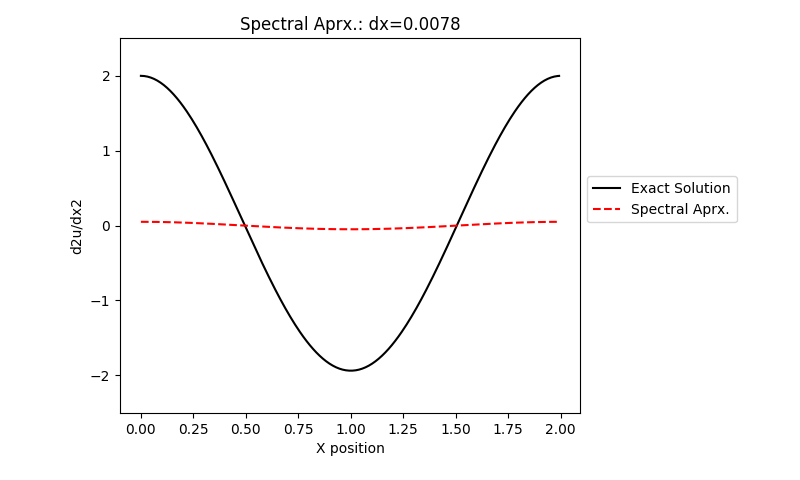
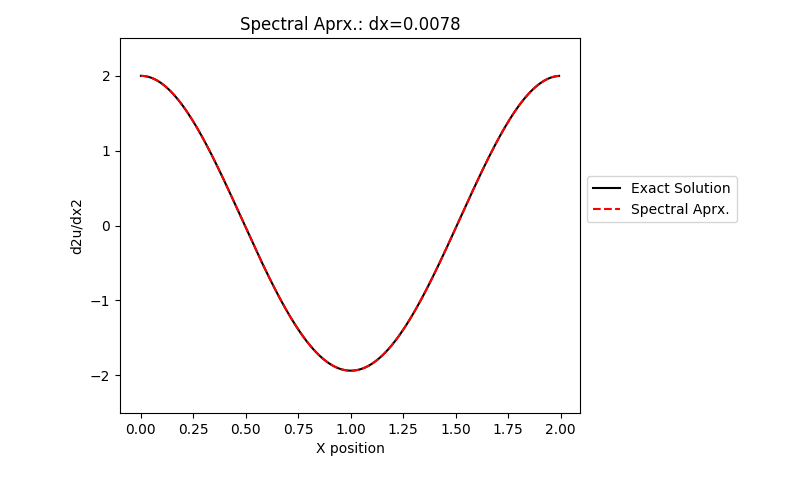
Corrected fft spectral derivative for even numbers

diff --git a/homework_3/question_2.py b/homework_3/question_2.py
@@ -7,6 +7,7 @@ import numpy as np
 import pandas as pd
 import matplotlib.pyplot as plt
 from scipy.optimize import curve_fit
+import scipy
 
 OUTPUT_DIR = Path(__file__).parent / 'plot'
 OUTPUT_DIR.mkdir(parents=True, exist_ok=True)
@@ -85,7 +86,8 @@ def execute_study(dx: float, interval_end: float) -> Dict[str, np.array]:
     # Set up
     number_of_points = round(interval_end / dx)
     x = np.arange(0, interval_end, dx)
-    n_array = np.array(number_of_points)
+    n_array = np.arange(number_of_points // 2)
+    n_array = np.arange(-1 * number_of_points // 2 + 1, -1)
 
     # Exact solutions
     u_exact = u_x(x)
@@ -95,10 +97,15 @@ def execute_study(dx: float, interval_end: float) -> Dict[str, np.array]:
     three_point = three_point_stencil(u_exact, dx)
 
     # Spectral approximation
-    fft = np.fft.fft(u_exact)
-    # kx = n_array * 2 * np.pi / (interval_end * number_of_points)
-    kx = np.fft.fftfreq(n=fft.size, d=dx)
-    u_ddot_fft = np.fft.ifft(-(kx ** 2) * fft).real
+    fft = scipy.fft.fft(u_exact)
+    kx = np.zeros(number_of_points)
+    wave_length = 2 * np.pi / interval_end
+    kx[:number_of_points // 2 + 1] = \
+        np.arange(number_of_points // 2 + 1) * wave_length
+    kx[number_of_points // 2 + 1:] = \
+        np.arange(-1 * number_of_points // 2 + 1, 0) * wave_length
+    # kx = scipy.fft.fftfreq(n=fft.size, d=dx)
+    u_ddot_fft = scipy.fft.ifft(-(kx ** 2) * fft).real
 
     return {'x': x, 'exact': u_ddot, 'stencil': three_point, 'fft': u_ddot_fft}
 
@@ -242,5 +249,5 @@ if __name__ == '__main__':
         })
 
     # Plot convergence
-    for method, norms in norms.items():
-        generate_convergence_plots(pd.DataFrame(norms), method)
+    # for method, norms in norms.items():
+    #     generate_convergence_plots(pd.DataFrame(norms), method)
